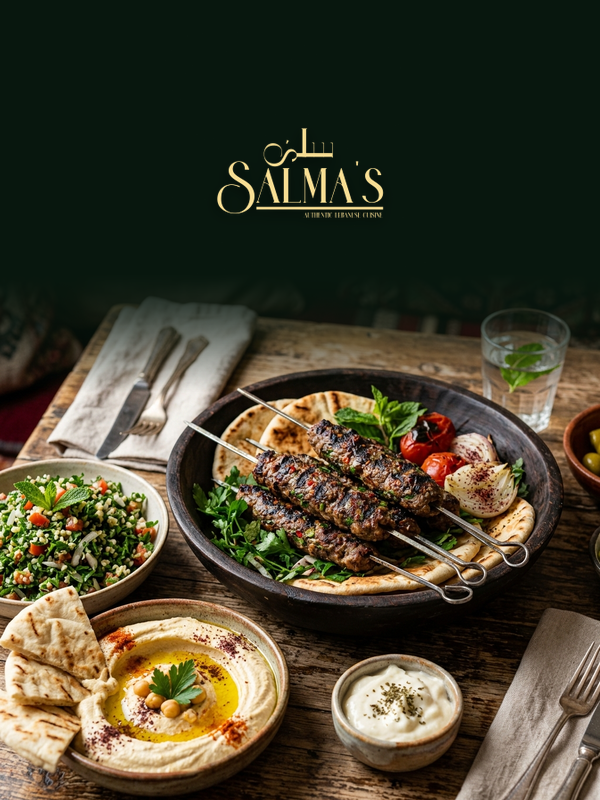
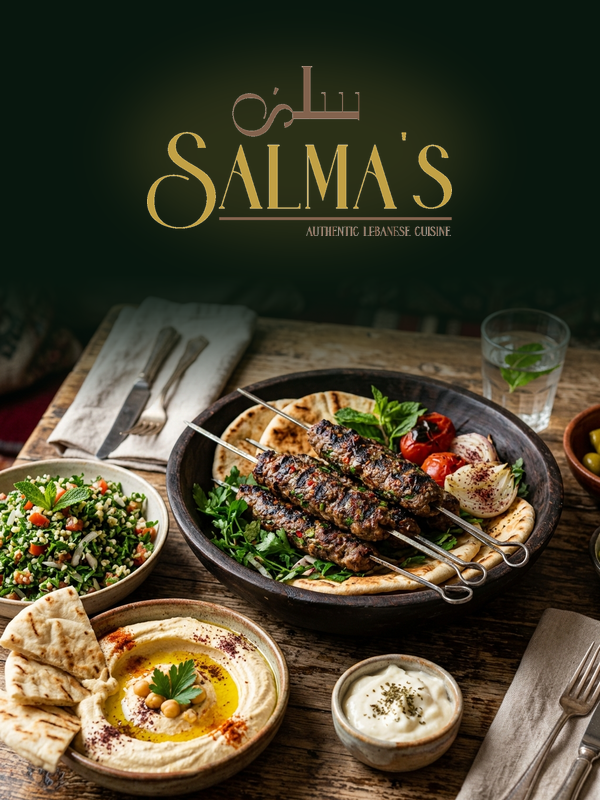
new outlet background

diff --git a/apps/web/src/components/outlets/outlet-card.tsx b/apps/web/src/components/outlets/outlet-card.tsx
@@ -49,23 +49,10 @@ export function OutletCard({ outlet }: { outlet: Outlet }) {
 
       {/* Content */}
       <div className="flex flex-col flex-1 p-3 sm:p-4 gap-1">
-        {outlet.logoUrl ? (
-          <div className="flex min-h-12 items-center" aria-label={`${outlet.name} logo`}>
-            <img
-              src={outlet.logoUrl}
-              alt={`${outlet.name} logo`}
-              className="h-12 max-w-[9rem] object-contain object-left"
-              loading="lazy"
-            />
-          </div>
-        ) : (
-          <>
-            <h3 className="font-bold text-gray-900 text-sm sm:text-base leading-tight">
-              {outlet.name}
-            </h3>
-            <p className="text-xs text-gray-400">{outlet.cuisines.join(" · ")}</p>
-          </>
-        )}
+        <h3 className="font-bold text-gray-900 text-sm sm:text-base leading-tight">
+          {outlet.name}
+        </h3>
+        <p className="text-xs text-gray-400">{outlet.cuisines.join(" · ")}</p>
 
         <div className="mt-auto grid grid-cols-[1fr_auto_1fr] items-center pt-2 text-xs">
           <span
@@ -135,23 +122,10 @@ export function OutletCard({ outlet }: { outlet: Outlet }) {
 
         {/* Content */}
         <div className="flex flex-col flex-1 p-3 sm:p-4 gap-1">
-          {outlet.logoUrl ? (
-            <div className="flex min-h-12 items-center" aria-label={`${outlet.name} logo`}>
-              <img
-                src={outlet.logoUrl}
-                alt={`${outlet.name} logo`}
-                className="h-12 max-w-[9rem] object-contain object-left"
-                loading="lazy"
-              />
-            </div>
-          ) : (
-            <>
-              <h3 className="font-bold text-gray-900 text-sm sm:text-base leading-tight">
-                {outlet.name}
-              </h3>
-              <p className="text-xs text-gray-400">{outlet.cuisines.join(" · ")}</p>
-            </>
-          )}
+          <h3 className="font-bold text-gray-900 text-sm sm:text-base leading-tight">
+            {outlet.name}
+          </h3>
+          <p className="text-xs text-gray-400">{outlet.cuisines.join(" · ")}</p>
 
           <div className="mt-auto grid grid-cols-[1fr_auto_1fr] items-center pt-2 text-xs">
             <span

diff --git a/apps/web/src/lib/data/outlets.ts b/apps/web/src/lib/data/outlets.ts
@@ -43,10 +43,10 @@ export interface Outlet {
 
 // High resolution outlet card clean backdrops matching the reference design
 const OUTLET_GRAPHICS = [
-  { headerColor: "#071a10", image: "/outlets/cactus-card-clean.png" },
-  { headerColor: "#071a0f", image: "/outlets/salmas-card-clean.png" },
-  { headerColor: "#f5ece0", image: "/outlets/farfallino-card-clean.png" },
-  { headerColor: "#071a10", image: "/outlets/cactus-card-clean.png" },
+  { headerColor: "#071a10", image: "/outlets/cactus-outlet-card.png" },
+  { headerColor: "#071a0f", image: "/outlets/salmas-outlet-card.png" },
+  { headerColor: "#f5ece0", image: "/outlets/farfallino-outlet-card.png" },
+  { headerColor: "#071a10", image: "/outlets/taste-of-naija-outlet-card.png" },
 ];
 
 function resolveOutletGraphic(name: string, index: number) {

diff --git a/apps/web/src/components/landing/landing-page.tsx b/apps/web/src/components/landing/landing-page.tsx
@@ -304,11 +304,7 @@ export function LandingPage() {
                       </span>
                     </div>
 
-                    {outlet.logoUrl ? (
-                      <div className="grab-portrait-card__logo" aria-label={`${outlet.name} logo`}>
-                        <img src={outlet.logoUrl} alt={`${outlet.name} logo`} loading="lazy" />
-                      </div>
-                    ) : (
+                    {!outlet.image.includes("-outlet-card.") && (
                       <div className="grab-portrait-card__title-group">
                         <h3 className="grab-portrait-card__title">{outlet.name}</h3>
                         <p className="grab-portrait-card__cuisine">
